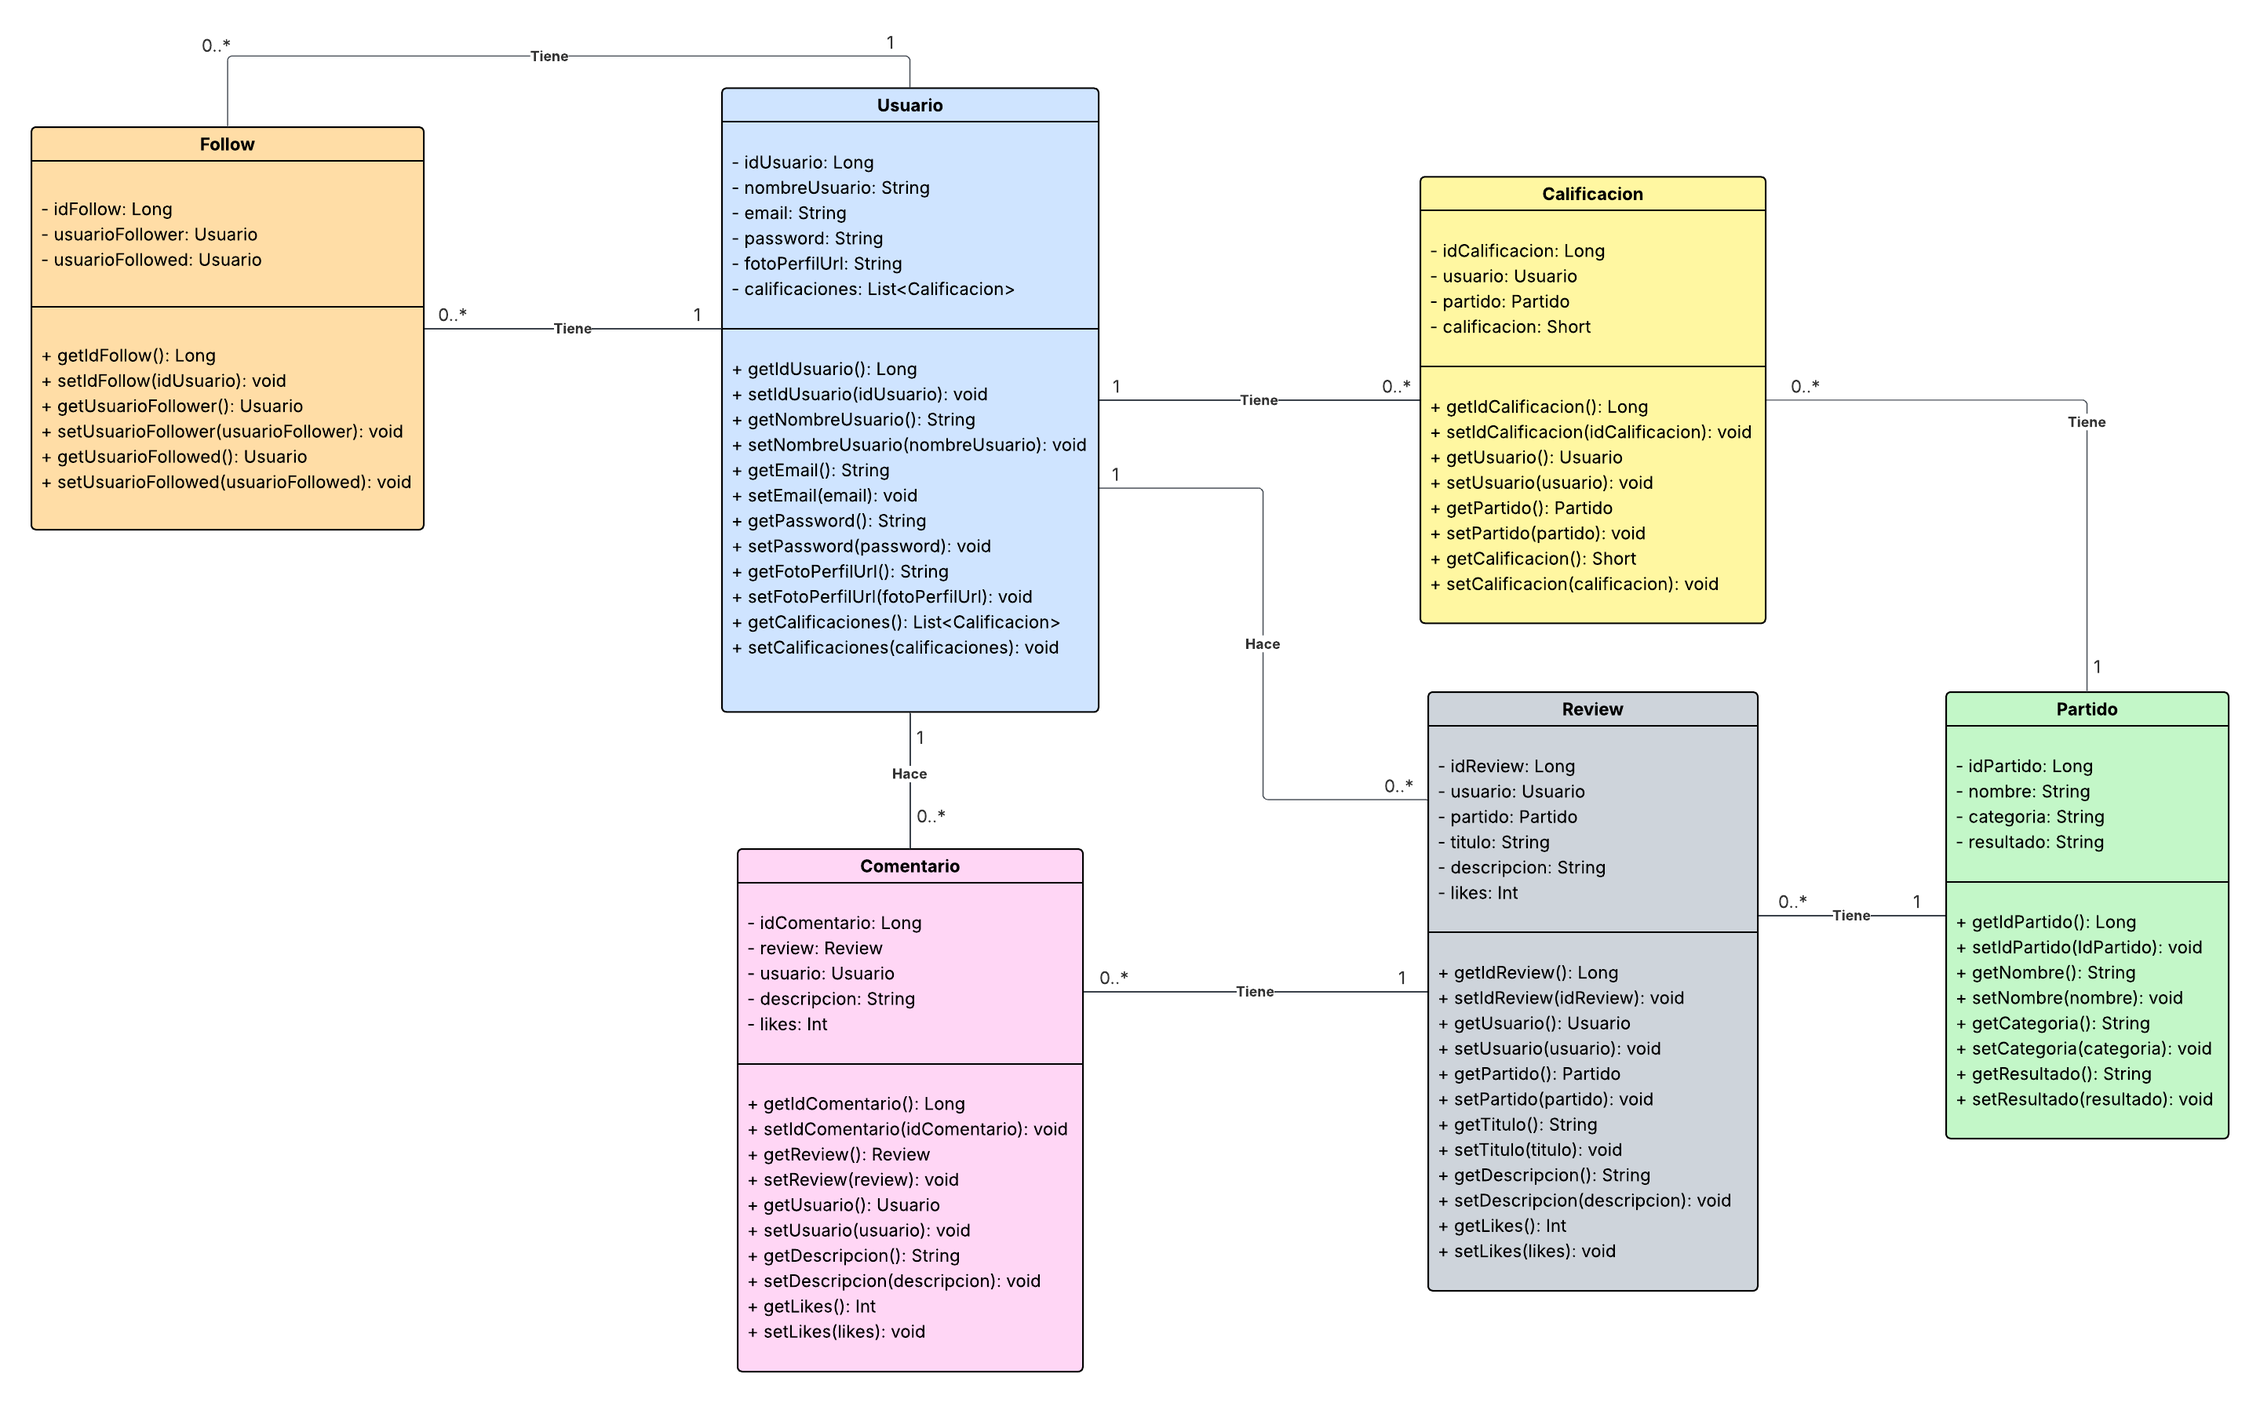
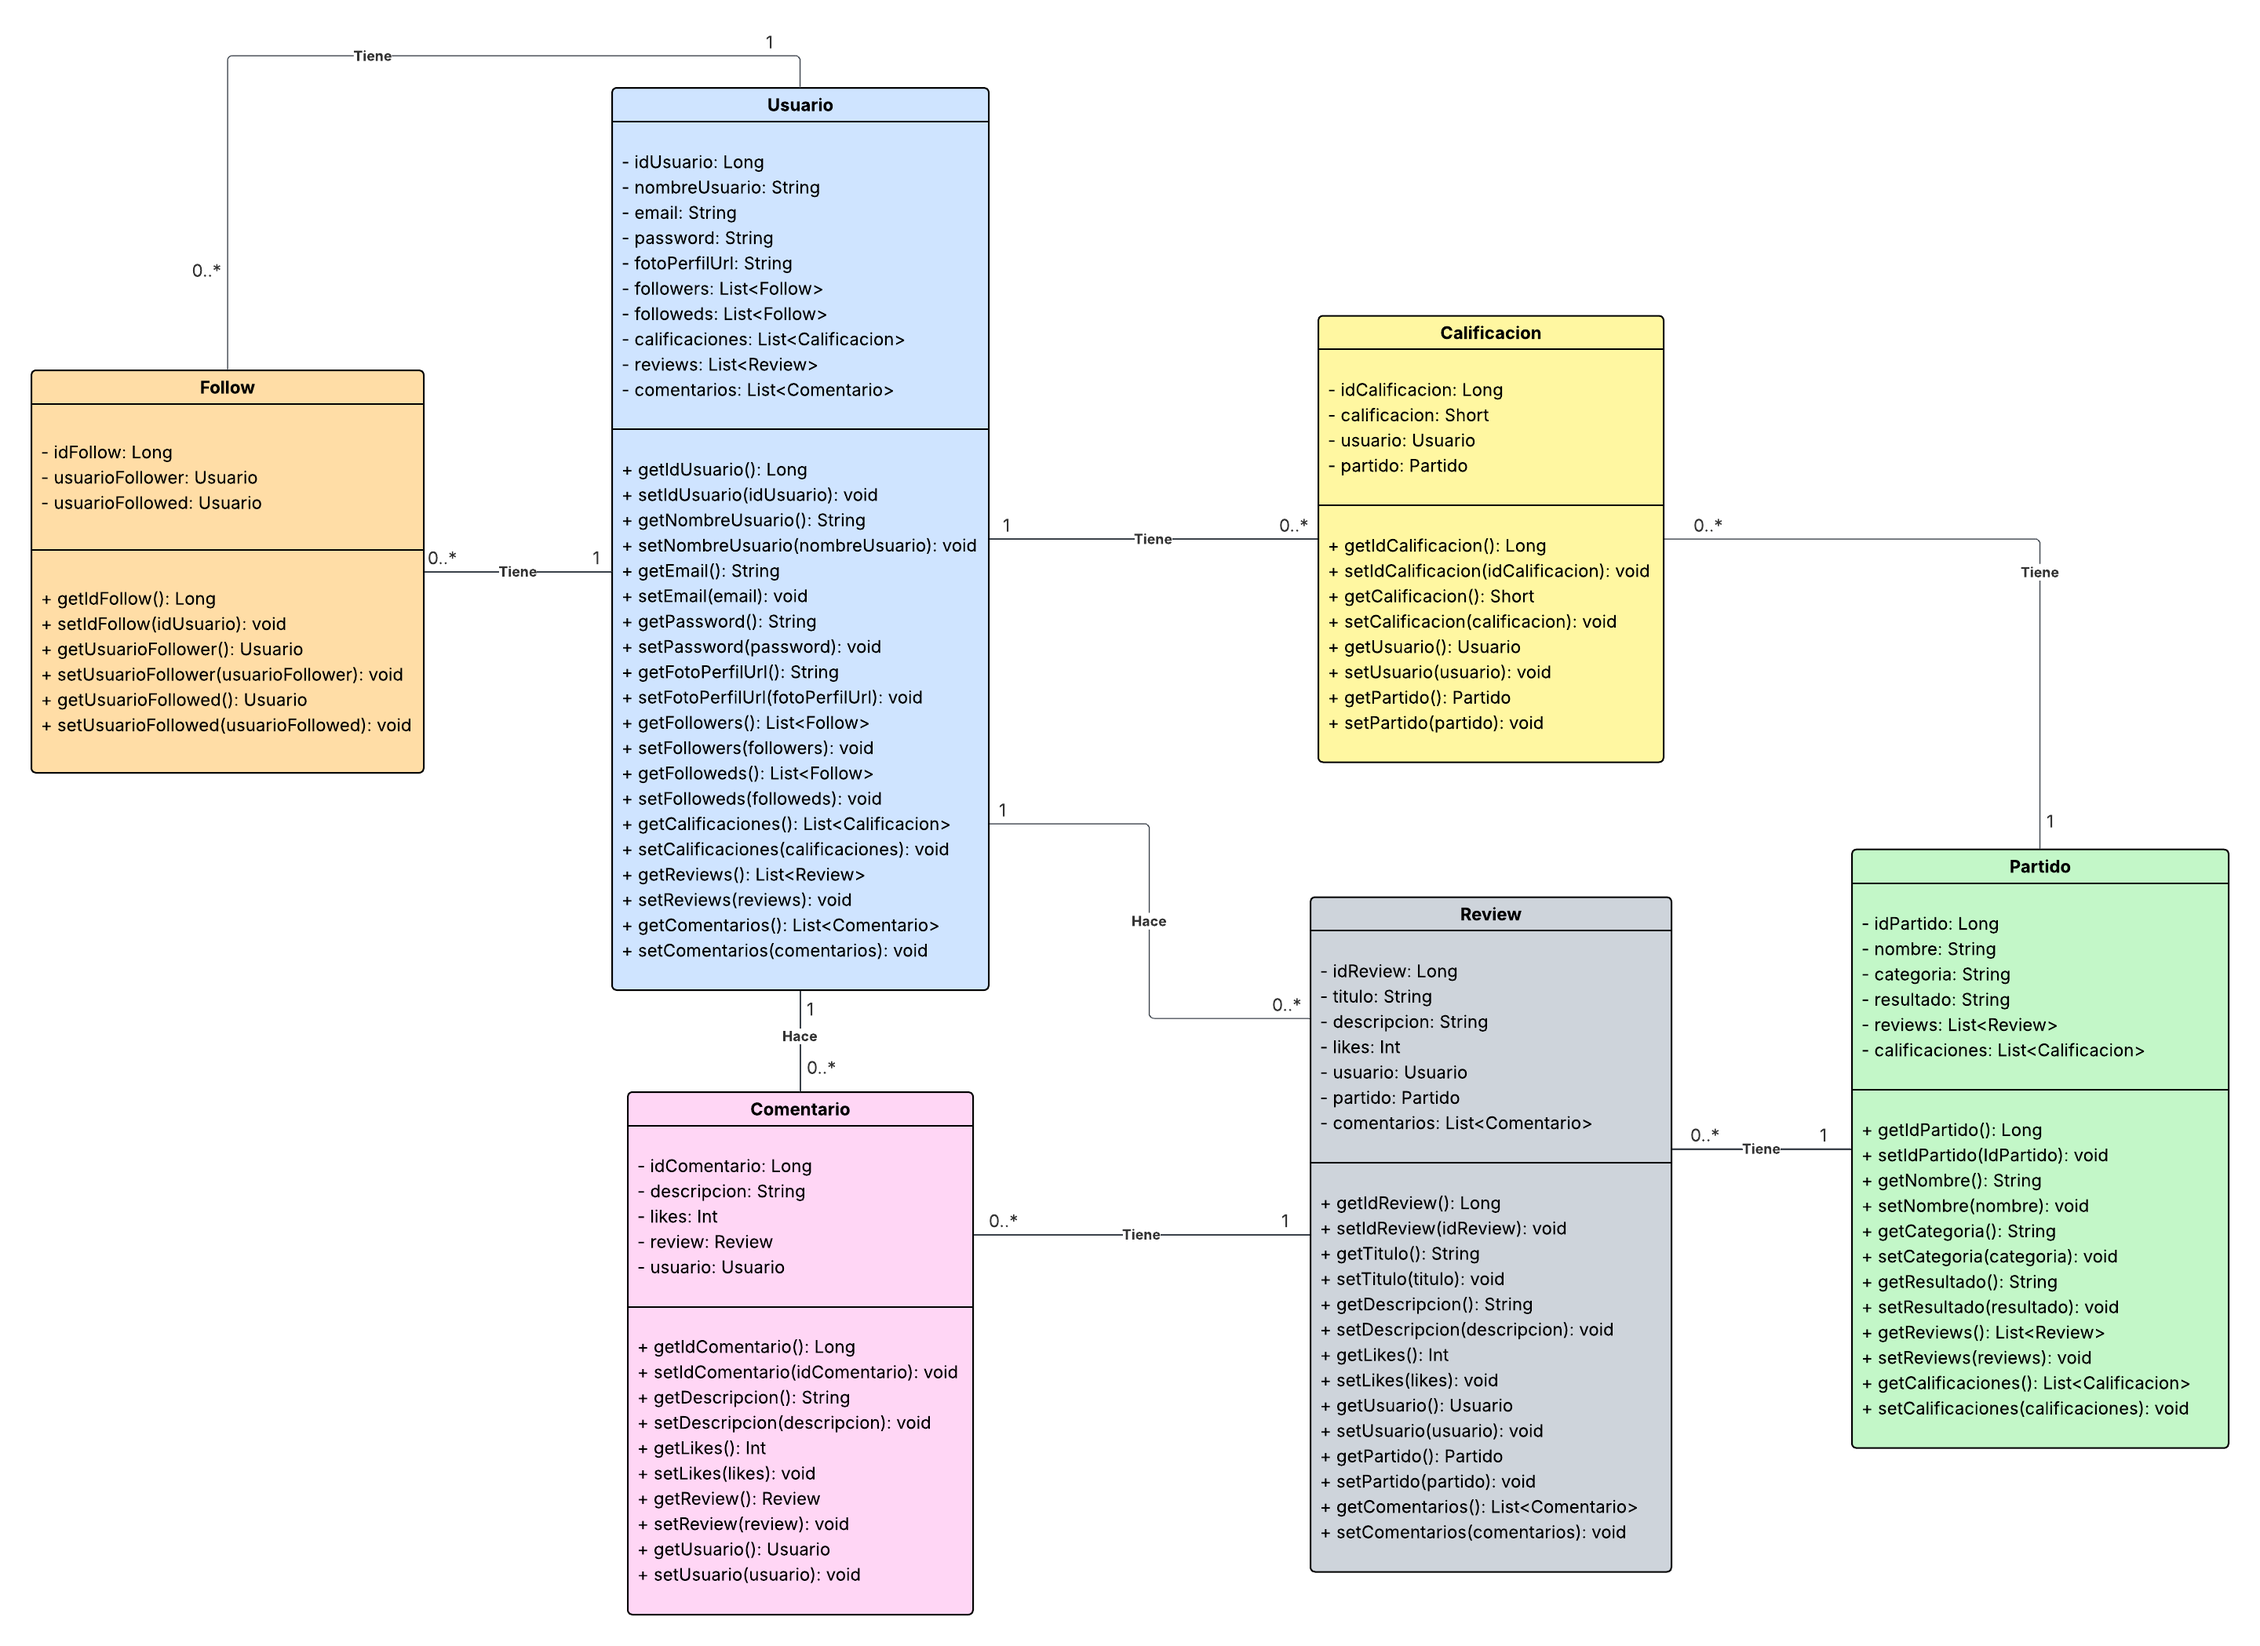
docs: se actualiza README
Se agrega diagrama de clases a README y se agrega badge del SDK

diff --git a/README.md b/README.md
@@ -1,18 +1,22 @@
 # PostMatch
 
 ## Tecnologias
-<img width="200px" alt="Static Badge" src="https://img.shields.io/badge/platform-android%20studio-ligthgreen?logo=androidstudio&logoColor=ligthgreen">
+<img width="150px" alt="Static Badge" src="https://img.shields.io/badge/platform-android-ligthgreen?logo=android&logoColor=ligthgreen">
 <img width="140px" alt="Static Badge" src="https://img.shields.io/badge/language-kotlin-%23b042ff?logo=kotlin&logoColor=%23b042ff">
 <img width="160px" alt="Static Badge" src="https://img.shields.io/badge/framework-flutter-%2304bade?logo=flutter&logoColor=%2304bade">
 <img width="157px" alt="Static Badge" src="https://img.shields.io/badge/database-firebase-red?logo=firebase&logoColor=red">
 <img width="157px" alt="Static Badge" src="https://img.shields.io/badge/database-fireship-red?logo=fireship&logoColor=red">
 <img width="185px" alt="Static Badge" src="https://img.shields.io/badge/project-in%20development-yellow?logo=git">
+<img width="165px" alt="Static Badge"
+    src="https://img.shields.io/badge/SDK-android%20studio-ligthgreen?logo=androidstudio&logoColor=%2304bade"
+>
 
 
 ## Indice
 - [Integrantes del Proyecto](#integrantes-del-proyecto)
 - [Descripción del Proyecto](#descripción-del-proyecto)
 - [Diagrama Entidad Relación](#diagrama-entidad-relación)
+- [Diagrama de Clases](#diagrama-clases)
 - [Requerimientos funcionales](docs/requerimientos_funcionales.pdf)
 
 ## Integrantes del proyecto
@@ -27,7 +31,9 @@
   <img src="assets/logo-postmatch.png" alt="Logo de PostMatch" width="200"/>
 </p>
 
-**PostMatch** es una aplicación móvil desarrollada en Android Studio que permite a los usuarios realizar reseñas (reviews) de partidos de fútbol. La aplicación no solo se enfoca en capturar opiniones sobre eventos deportivos, sino que también incorpora funcionalidades propias de una red social:
+**PostMatch** es una aplicación móvil desarrollada en Android Studio que permite a los usuarios realizar reseñas (reviews) de partidos de
+fútbol. La aplicación no solo se enfoca en capturar opiniones sobre eventos deportivos, sino que también incorpora funcionalidades propias
+de una red social:
 
 - Publicar y comentar reseñas de partidos.
 - Puntuar partidos de acuerdo a la experiencia del usuario.
@@ -35,7 +41,8 @@
 - Notificaciones de nuevas interacciones.
 - Historial de partidos reseñados y publicaciones.
 
-Esta app está diseñada para fanáticos del fútbol que desean compartir su perspectiva de los encuentros, generar discusión, y construir comunidad a través de la experiencia deportiva.
+Esta app está diseñada para fanáticos del fútbol que desean compartir su perspectiva de los encuentros, generar discusión, y construir
+comunidad a través de la experiencia deportiva.
 
 ## Paleta de Colores
 
@@ -51,5 +58,8 @@ Esta app está diseñada para fanáticos del fútbol que desean compartir su per
 
 ## Diagrama Entidad Relación
 
-![Ver diagrama entidad-relación](docs/entidad-relacion.png)
+![Diagrama entidad-relación](docs/diagramas/entidad-relacion.png)
 
+## Diagrama Clases
+
+![Diagrama clases](docs/diagramas/clases.png)
